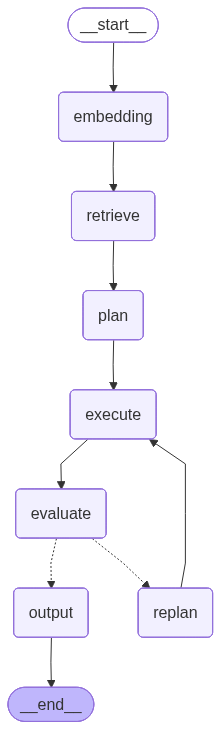
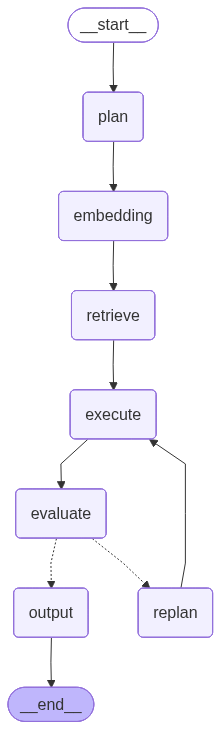
예제 검색 순서 변경

diff --git a/app/graph/nodes.py b/app/graph/nodes.py
@@ -35,12 +35,26 @@ async def retrieve_node(state: OverallState, deps: Deps, config: RunnableConfig)
     query = state.query_synonym
     query_embedding = state.query_embedding[0]
     trace = state.private.trace or []
+    plan = state.private.plan or []
+    
+    # 계획된 도구 중 Neo4j 도구가 있는지 확인
+    neo4j_tools = ["neo4j_product_search", "neo4j_search"]
+    needs_neo4j = any(step.get("tool") in neo4j_tools for step in plan)
+    
+    if not needs_neo4j:
+        trace.append("No Neo4j tools planned, skipping few-shot retrieval")
+        private_dict = state.private.model_dump()
+        private_dict["trace"] = trace
+        return {
+            "fewshot_examples": [],
+            "private": private_dict
+        }
     
     from app.models.vectorstore.semantic_retrieval import SemanticSearchModel
 
     # expand_search에 따른 검색 전략 설정 (case1/case2)
     search_case = "case_1" if not state.expand_search else "case_2"
-    trace.append(f"Few-shot retrieval with {search_case}")
+    trace.append(f"Few-shot retrieval with {search_case} for Neo4j tools")
 
     async with deps.postgres_db.get_async_session() as session:
         retrieved_examples: list[tuple[SemanticSearchModel, float]] = await deps.pgvector_models[
@@ -65,7 +79,7 @@ async def retrieve_node(state: OverallState, deps: Deps, config: RunnableConfig)
             "score": score,
         })
     
-    trace.append(f"Retrieved {len(filtered_examples)} examples for {search_case} (from {len(retrieved_examples)} total)")
+    trace.append(f"Retrieved {len(filtered_examples)} Neo4j examples for {search_case} (from {len(retrieved_examples)} total)")
     
     # trace 업데이트
     private_dict = state.private.model_dump()
@@ -86,28 +100,17 @@ async def embedding_node(state: OverallState, deps: Deps, config: RunnableConfig
 
 
 async def plan_node(state: OverallState, deps: Deps, config: RunnableConfig) -> dict:
-    """쿼리를 브레이크다운하여 subtasks 생성 (few-shot 예제 활용)"""
+    """쿼리 분석하여 적절한 도구 선택"""
     cfg = Config.from_runnable_config(config)
 
     tools_description = deps.toolkit.get_tools_description()
     query = state.query_synonym
     
-    # few-shot 예제들을 포맷팅
-    fewshot_examples = state.fewshot_examples or []
-    examples_text = ""
-    if fewshot_examples:
-        examples_text = "\n".join([
-            f"예제 {i+1}: 질의='{ex['query']}' → 쿼리='{ex['cypher_query']}' (유사도: {ex['score']:.3f})"
-            for i, ex in enumerate(fewshot_examples[:3])  # 상위 3개만 사용
-        ])
-    else:
-        examples_text = "참고할 유사 예제 없음"
-    
     parser = PydanticOutputParser(pydantic_object=Plan)
     prompt = PLANNING_PROMPT.partial(
         format_instructions=parser.get_format_instructions(),
         tool_list_json=json.dumps(tools_description),
-        fewshot_examples=examples_text,
+        fewshot_examples="쿼리 패턴 분석 기반 도구 선택",
     )
     system_message = prompt.format()
     llm_response = await deps.llm_client.agenerate_response(
@@ -225,8 +228,17 @@ async def execute_node(state: OverallState, deps: Deps, config: RunnableConfig) 
             # 도구 실행 (LangChain BaseTool 표준 인터페이스)
             result = None
             if hasattr(tool_instance, 'arun'):
-                # 비동기 실행 - LangChain BaseTool 방식
-                result = await tool_instance.arun(query_params)
+                # Neo4j 도구인 경우 few-shot 예제 전달
+                if tool_name == "neo4j_product_search" and hasattr(tool_instance, '_arun'):
+                    fewshot_examples = state.fewshot_examples or []
+                    result = await tool_instance._arun(
+                        query=query_params.get("query", ""),
+                        expand_search=query_params.get("expand_search", True),
+                        fewshot_examples=fewshot_examples
+                    )
+                else:
+                    # 일반 도구는 기존 방식
+                    result = await tool_instance.arun(query_params)
             elif hasattr(tool_instance, 'run'):
                 # 동기 실행 - LangChain BaseTool 방식
                 result = tool_instance.run(query_params)

diff --git a/app/core/tools/neo4j/search.py b/app/core/tools/neo4j/search.py
@@ -34,13 +34,17 @@ class Neo4jSearchTool(SafeValidationTool):
         object.__setattr__(self, 'cypher_qa_chain', cypher_qa_chain)
         object.__setattr__(self, 'llm_model', llm_model or cypher_qa_chain.llm)
     
+    def _get_fewshot_from_state(self, execution_context) -> list:
+        """실행 컨텍스트에서 few-shot 예제 가져오기"""
+        # execute_node에서 state.fewshot_examples를 전달받아 사용
+        return getattr(execution_context, 'fewshot_examples', [])
     
     def _run(self, query: str, expand_search: bool = True) -> str:
         """동기 실행 (추상 메서드 구현)"""
         import asyncio
         return asyncio.run(self._arun(query, expand_search))
     
-    async def _arun(self, query: str, expand_search: bool = True) -> str:
+    async def _arun(self, query: str, expand_search: bool = True, fewshot_examples: list = None) -> str:
         """툴 실행 메인 함수 - 원본 map-search-agent 로직"""
         start_time = time.time()
         
@@ -49,10 +53,14 @@ class Neo4jSearchTool(SafeValidationTool):
             if not self.cypher_qa_chain.db._driver:
                 await self.cypher_qa_chain.db.connect()
             
-            # 1. 기본 검색 실행 (case1 시도)
+            # Few-shot 예제는 execute_node에서 전달받음
+            fewshot_examples = fewshot_examples or []
+            
+            # 1. 기본 검색 실행 (case1 시도) - few-shot 예제 포함
             result = await self.cypher_qa_chain.ainvoke(
                 prompt="사용자 질의에 맞는 상품 정보를 Neo4j에서 검색하세요.",
-                question=query
+                question=query,
+                fewshot_examples=fewshot_examples
             )
             
             execution_time = int((time.time() - start_time) * 1000)

diff --git a/app/graph/map_search_graph.py b/app/graph/map_search_graph.py
@@ -49,21 +49,21 @@ class MapSearchGraph(BaseGraph):
         )
 
         # 모든 노드 추가 (map-search-agent의 노드 구성 참고)
+        workflow.add_node("plan", partial(plan_node, deps=self.deps))
         workflow.add_node("embedding", partial(embedding_node, deps=self.deps))
         workflow.add_node("retrieve", partial(retrieve_node, deps=self.deps))
-        workflow.add_node("plan", partial(plan_node, deps=self.deps))
         workflow.add_node("execute", partial(execute_node, deps=self.deps))
         workflow.add_node("evaluate", partial(evaluate_node, deps=self.deps))
         workflow.add_node("replan", partial(replan_node, deps=self.deps))
         workflow.add_node("output", partial(output_node, deps=self.deps))
 
         # 초기 플로우: 준비 단계 (map-search-agent의 preparation flow)
-        workflow.add_edge(START, "embedding")
+        workflow.add_edge(START, "plan")
+        workflow.add_edge("plan", "embedding")
         workflow.add_edge("embedding", "retrieve")
-        workflow.add_edge("retrieve", "plan")
+        workflow.add_edge("retrieve", "execute")
         
-        # 실행 루프: plan → execute → evaluate (map-search-agent의 main loop)
-        workflow.add_edge("plan", "execute")
+        # 실행 루프: execute → evaluate (map-search-agent의 main loop)
         workflow.add_edge("execute", "evaluate")
         
         # 조건부 분기: 평가 결과에 따른 라우팅 (map-search-agent의 conditional routing)

diff --git a/app/models/graphmodel/graph.py b/app/models/graphmodel/graph.py
@@ -163,6 +163,7 @@ class AsyncGraphCypherQAChain:
         *,
         refresh_schema: bool = False,
         return_cypher_only: bool = False,
+        fewshot_examples: list = None,
     ) -> Dict[str, Any]:
         """
         Params
@@ -177,7 +178,16 @@ class AsyncGraphCypherQAChain:
         }
         """
         schema = await self._get_schema_str(refresh=refresh_schema)
-        cypher = await self._generate_cypher(question, schema, prompt)
+        
+        # Few-shot 예제를 프롬프트에 포함
+        enhanced_prompt = prompt
+        if fewshot_examples:
+            examples_text = "\n\n## Few-shot Examples:\n"
+            for i, ex in enumerate(fewshot_examples[:3]):
+                examples_text += f"예제 {i+1}: '{ex['query']}' → {ex['cypher_query']} (유사도: {ex['score']:.3f})\n"
+            enhanced_prompt = prompt + examples_text
+        
+        cypher = await self._generate_cypher(question, schema, enhanced_prompt)
 
         if return_cypher_only:
             return {"cypher": cypher, "records": [], "result": ""}
